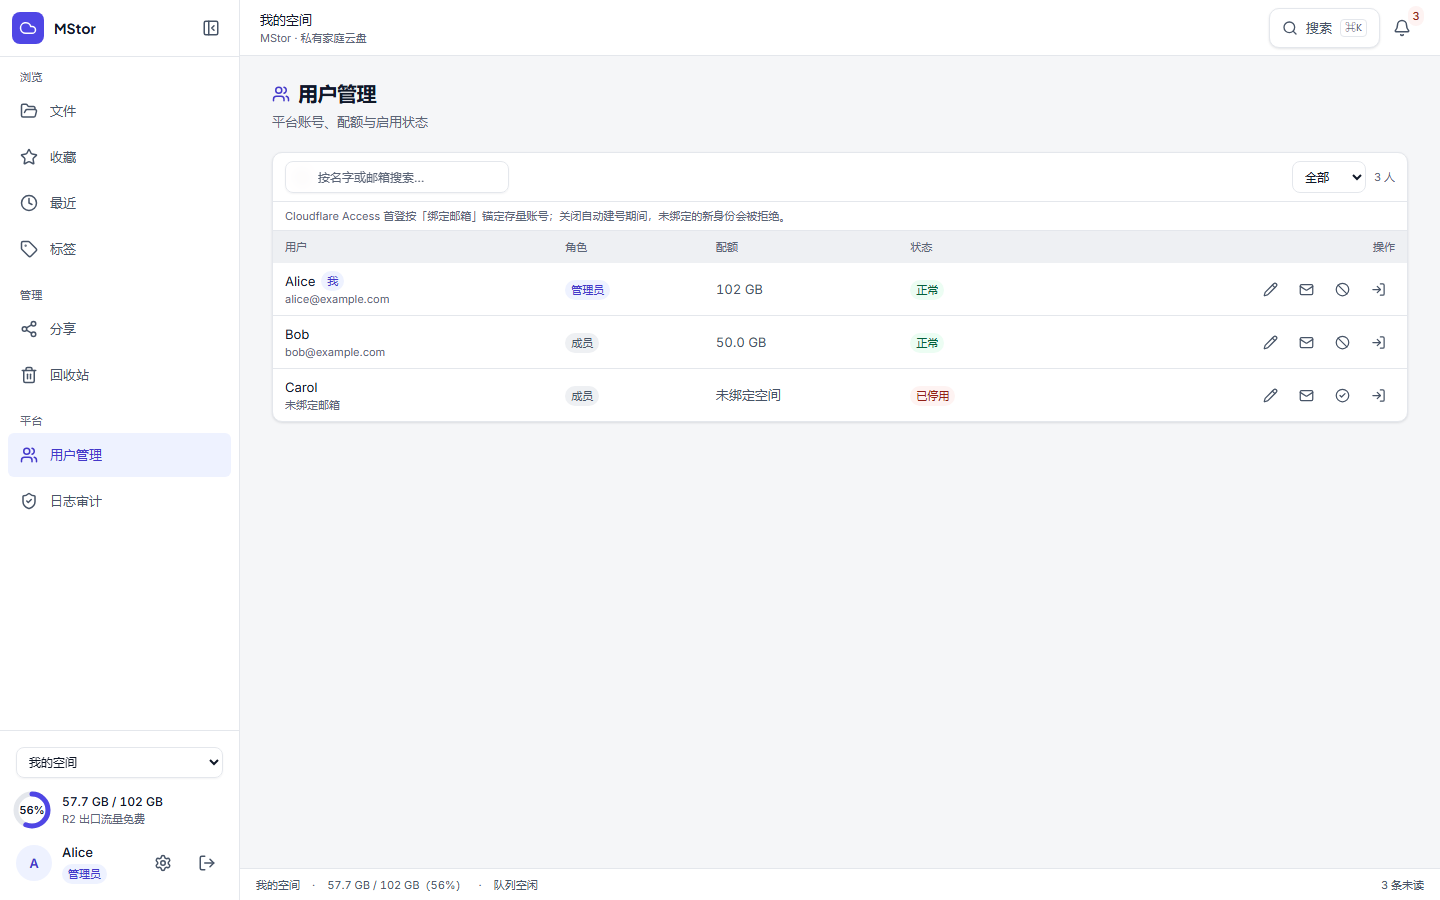
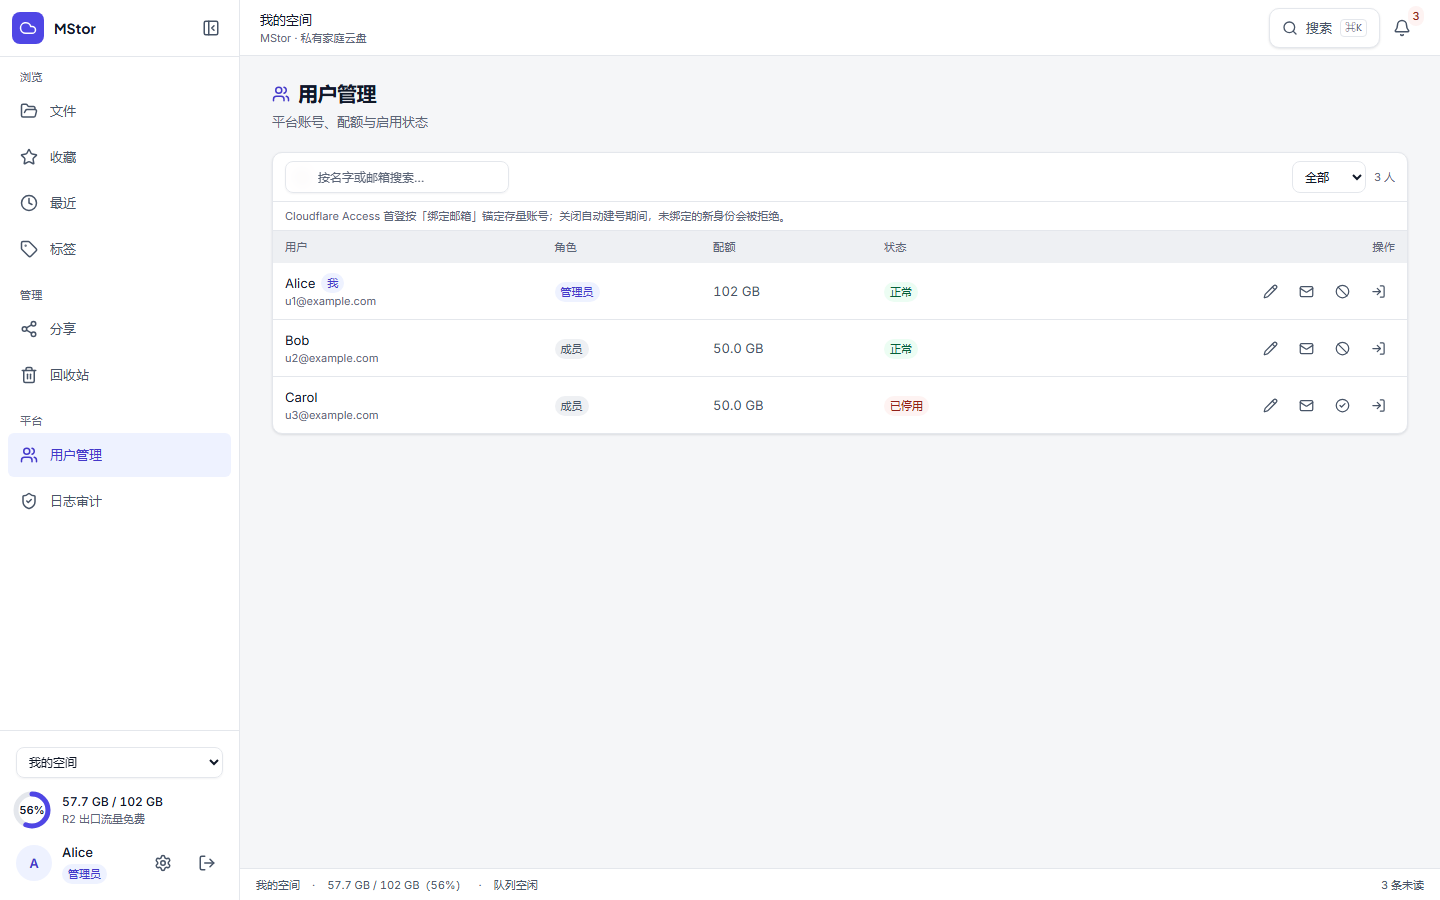
docs(design): 更新平台/审计/分享截图基线
- 同步 v7.4 表格节奏后的 platform-users / platform-audit / shares-desktop 截图

diff --git a/docs/design-system.md b/docs/design-system.md
@@ -3,7 +3,7 @@
 > **令牌唯一来源**：`client/src/index.css` 的 `@theme`（含暗色覆盖）。
 > **原语唯一来源**：`client/src/components/ui/*`；页面骨架 `components/layout/PageHeader` + `shell/AppHeader`。
 > **可视化验收**：应用内 `/design` 页（`pages/DesignPage.tsx`）——新增令牌/原语**必须先在此登记**。
-> **v7 实机基线**：`docs/design/v7/` 下 `files-desktop` / `files-mobile`（1440×900 / 390×844）、`grid-desktop`、`dark-desktop`、`tags-desktop`、`platform-users`。
+> **v7 实机基线**：`docs/design/v7/` 下 `files-desktop` / `files-mobile`（1440×900 / 390×844）、`grid-desktop`、`dark-desktop`、`tags-desktop`、`platform-users`、`platform-audit`、`shares-desktop`。
 > 类名合并统一走 `client/src/lib/cn.ts`（clsx + tailwind-merge）。
 
 ## 1. 方向：从「演示型玻璃拟态」到「安静、内容优先的工作台」
